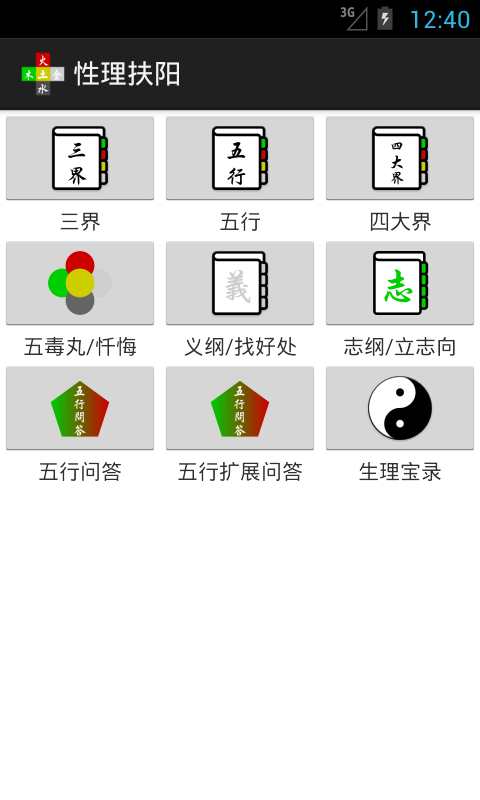
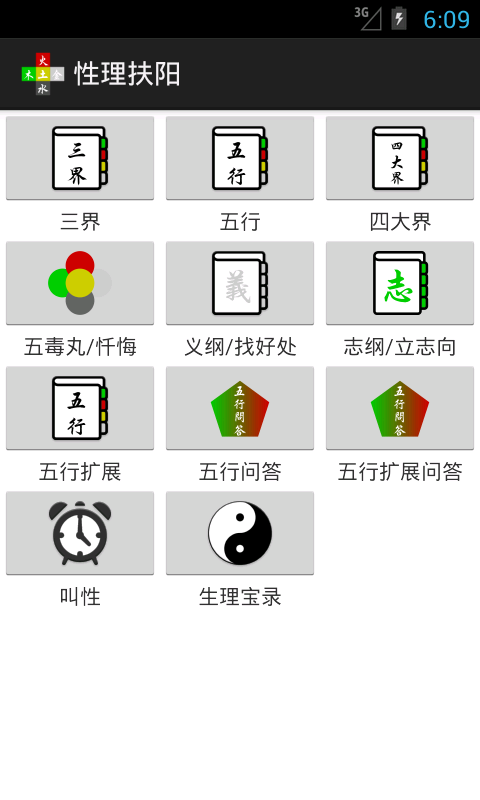
bug 修改

Changed region(s): [[0.0, 0.4688, 0.6562, 0.7812], [0.7188, 0.4688, 0.9688, 0.625], [0.7188, 0.0, 0.9688, 0.0625]]

diff --git a/app/src/main/java/me/xuender/ethics/app/MainActivity.java b/app/src/main/java/me/xuender/ethics/app/MainActivity.java
@@ -1,11 +1,13 @@
 package me.xuender.ethics.app;
 
-import android.app.Activity;
 import android.content.Intent;
 import android.content.pm.PackageInfo;
 import android.content.pm.PackageManager;
 import android.os.Bundle;
+import android.support.v7.app.ActionBarActivity;
 import android.util.Log;
+import android.view.Menu;
+import android.view.MenuItem;
 import android.view.View;
 import android.widget.Button;
 
@@ -19,13 +21,14 @@ import me.xuender.ethics.app.five.FiveActivity;
 import me.xuender.ethics.app.game.GameActivity;
 import me.xuender.ethics.app.notes.YiActivity;
 import me.xuender.ethics.app.notes.ZhiActivity;
+import me.xuender.ethics.app.settings.SettingsActivity;
 import me.xuender.ethics.app.sex.SexActivity;
 
 /**
  * 首页
  * Created by ender on 14-4-27.
  */
-public class MainActivity extends Activity implements Button.OnClickListener {
+public class MainActivity extends ActionBarActivity implements Button.OnClickListener {
     @Override
     protected void onCreate(Bundle savedInstanceState) {
         super.onCreate(savedInstanceState);
@@ -58,6 +61,20 @@ public class MainActivity extends Activity implements Button.OnClickListener {
         } catch (PackageManager.NameNotFoundException e) {
             e.printStackTrace();
         }
+    }
+
+    @Override
+    public boolean onCreateOptionsMenu(Menu menu) {
+        getMenuInflater().inflate(R.menu.main, menu);
+        return true;
+    }
+
+    @Override
+    public boolean onOptionsItemSelected(MenuItem item) {
+        Intent intent = new Intent();
+        intent.setClass(this, SettingsActivity.class);
+        startActivity(intent);
+        return true;
     }
 
     @Override

diff --git a/app/src/main/java/me/xuender/ethics/app/call/CallActivity.java b/app/src/main/java/me/xuender/ethics/app/call/CallActivity.java
@@ -66,8 +66,9 @@ public class CallActivity extends ActionBarActivity implements TimePicker.OnTime
         aSwitch.setOnCheckedChangeListener(this);
 
         soundSpinner = (Spinner) findViewById(R.id.spinner);
-        ArrayAdapter<String> adapter = new ArrayAdapter<String>(this, android.R.layout.simple_spinner_item,
-                new String[]{getString(R.string.s1), getString(R.string.s2)});
+        ArrayAdapter<String> adapter = new ArrayAdapter<String>(this,
+                android.R.layout.simple_spinner_item,
+                getResources().getStringArray(R.array.sounds));
         adapter.setDropDownViewResource(android.R.layout.simple_spinner_dropdown_item);
         soundSpinner.setAdapter(adapter);
         soundSpinner.setVisibility(View.VISIBLE);
@@ -88,8 +89,9 @@ public class CallActivity extends ActionBarActivity implements TimePicker.OnTime
         });
 
         numberSpinner = (Spinner) findViewById(R.id.num);
-        ArrayAdapter<String> adapter2 = new ArrayAdapter<String>(this, android.R.layout.simple_spinner_item,
-                new String[]{getString(R.string.n1), getString(R.string.n2), getString(R.string.n3)});
+        ArrayAdapter<String> adapter2 = new ArrayAdapter<String>(this,
+                android.R.layout.simple_spinner_item,
+                getResources().getStringArray(R.array.number));
         adapter2.setDropDownViewResource(android.R.layout.simple_spinner_dropdown_item);
         numberSpinner.setAdapter(adapter2);
         numberSpinner.setVisibility(View.VISIBLE);

diff --git a/app/src/main/java/me/xuender/ethics/app/game/GameFragment.java b/app/src/main/java/me/xuender/ethics/app/game/GameFragment.java
@@ -8,6 +8,7 @@ import android.media.AudioManager;
 import android.media.SoundPool;
 import android.os.Build;
 import android.os.Bundle;
+import android.preference.PreferenceManager;
 import android.support.v4.app.Fragment;
 import android.util.Log;
 import android.view.LayoutInflater;
@@ -53,6 +54,7 @@ public class GameFragment extends Fragment implements View.OnClickListener {
     private OnAddPoint onAddPoint;
     private String key = "top";
     private boolean ext = false;
+    private SharedPreferences prefs;
 
     public void setExt(boolean ext) {
         Log.d("ext", String.valueOf(ext));
@@ -72,6 +74,7 @@ public class GameFragment extends Fragment implements View.OnClickListener {
                              Bundle savedInstanceState) {
         if (rootView == null) {
             rootView = inflater.inflate(R.layout.fragment_five, container, false);
+            prefs = PreferenceManager.getDefaultSharedPreferences(getActivity());
             textView = (TextView) rootView.findViewById(R.id.textView);
             sp = getActivity().getSharedPreferences("game", Context.MODE_PRIVATE);
 
@@ -198,7 +201,9 @@ public class GameFragment extends Fragment implements View.OnClickListener {
         } else {
             showEnd();
             ok = false;
-            soundPool.play(1, 1, 1, 0, 0, 1);
+            if (prefs.getBoolean("sound", true)) {
+                soundPool.play(1, 1, 1, 0, 0, 1);
+            }
             return;
         }
         ok = true;

diff --git a/app/src/main/java/me/xuender/ethics/app/five/FiveActivity.java b/app/src/main/java/me/xuender/ethics/app/five/FiveActivity.java
@@ -2,13 +2,11 @@ package me.xuender.ethics.app.five;
 
 import android.app.AlertDialog;
 import android.content.DialogInterface;
-import android.content.Intent;
 import android.os.Bundle;
 import android.support.v4.app.FragmentTransaction;
 import android.support.v4.view.ViewPager;
 import android.support.v7.app.ActionBar;
 import android.support.v7.app.ActionBarActivity;
-import android.util.Log;
 import android.view.Menu;
 import android.view.MenuItem;
 import android.widget.Toast;
@@ -16,7 +14,6 @@ import android.widget.Toast;
 import com.google.analytics.tracking.android.EasyTracker;
 
 import me.xuender.ethics.app.R;
-import me.xuender.ethics.app.settings.SettingsActivity;
 
 
 public class FiveActivity extends ActionBarActivity implements ActionBar.TabListener,
@@ -68,11 +65,6 @@ public class FiveActivity extends ActionBarActivity implements ActionBar.TabList
                 this.finish();
                 return true;
         }
-        Log.d("menuItem", item.getTitle().toString() + item.getItemId());
-//        return super.onOptionsItemSelected(item);
-        Intent intent = new Intent();
-        intent.setClass(this, SettingsActivity.class);
-        startActivity(intent);
         return true;
     }
 

diff --git a/app/src/main/java/me/xuender/ethics/app/sex/BirthdayFragment.java b/app/src/main/java/me/xuender/ethics/app/sex/BirthdayFragment.java
@@ -27,6 +27,8 @@ import org.json.JSONObject;
 
 import java.util.ArrayList;
 import java.util.Calendar;
+import java.util.Collections;
+import java.util.Comparator;
 import java.util.Date;
 import java.util.List;
 
@@ -130,6 +132,12 @@ public class BirthdayFragment extends Fragment implements OnAddPoint, DialogInte
     @TargetApi(Build.VERSION_CODES.HONEYCOMB)
     @Override
     public void add(List<Note> notes) {
+        Collections.sort(notes, new Comparator<Note>() {
+            @Override
+            public int compare(Note lhs, Note rhs) {
+                return Long.valueOf(rhs.getCreate().getTime() - lhs.getCreate().getTime()).intValue();
+            }
+        });
         if (adapter == null) {
             tops = notes;
         } else {
